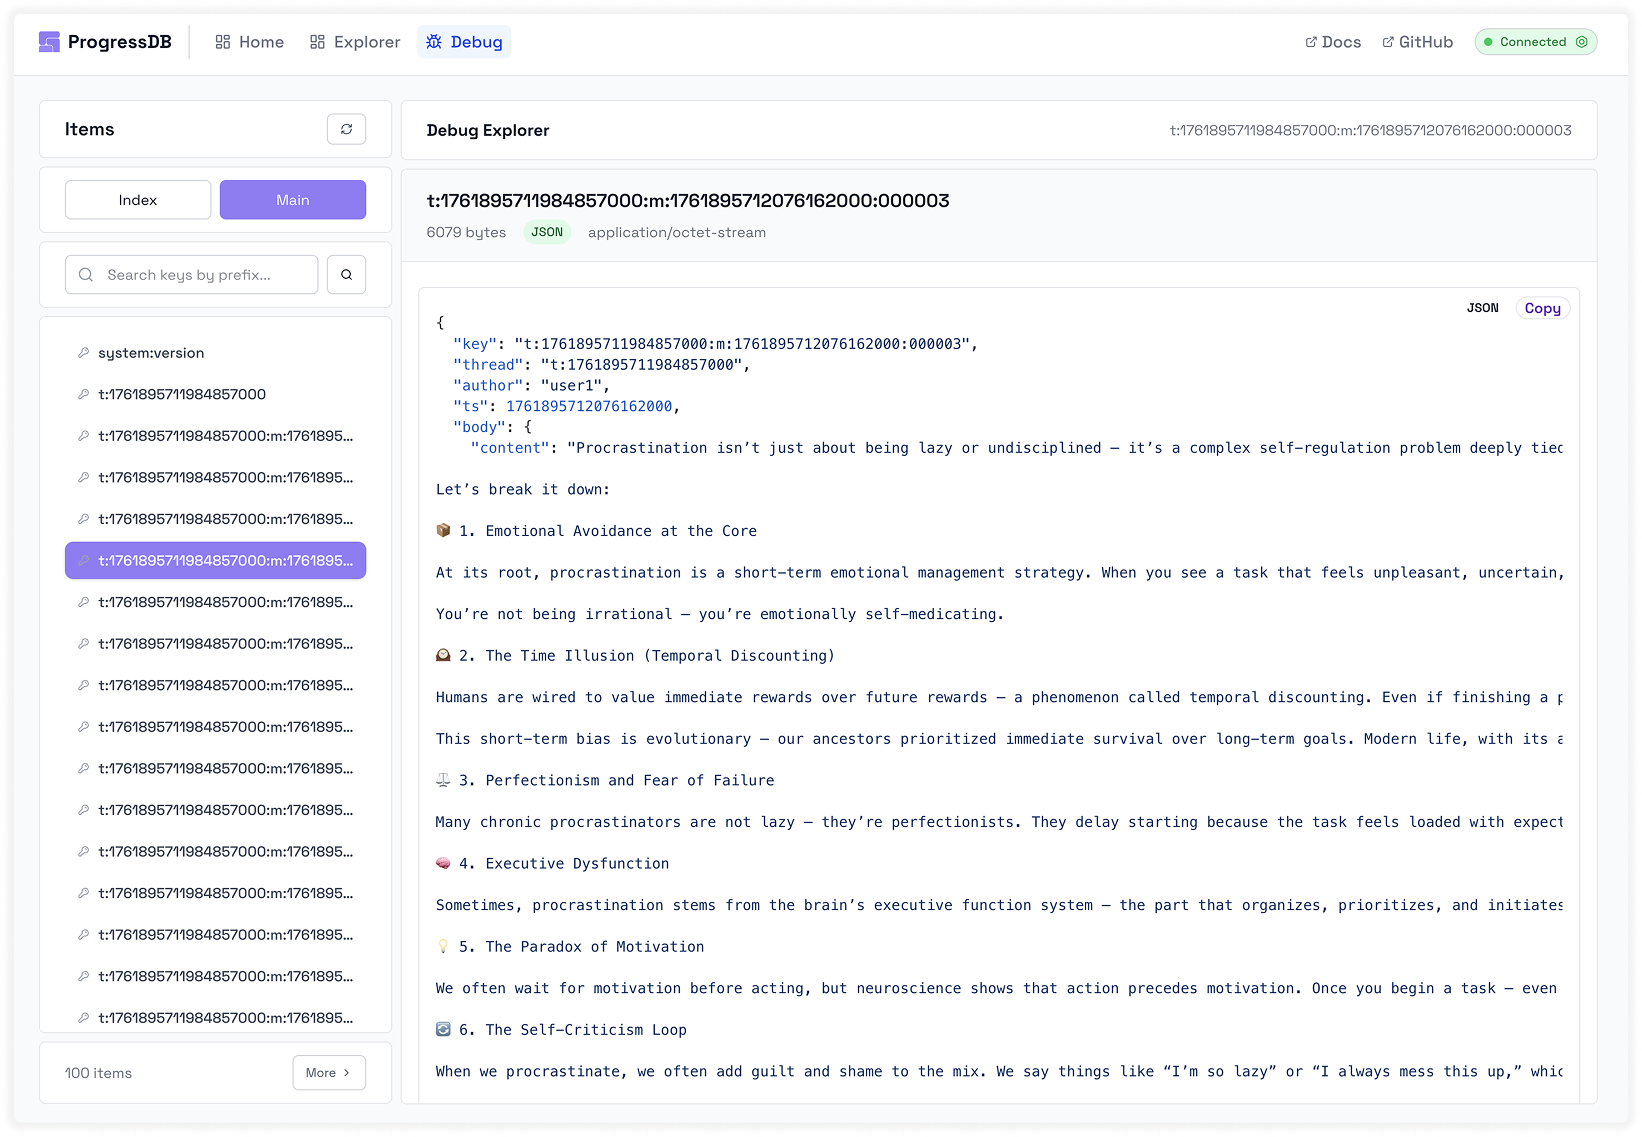
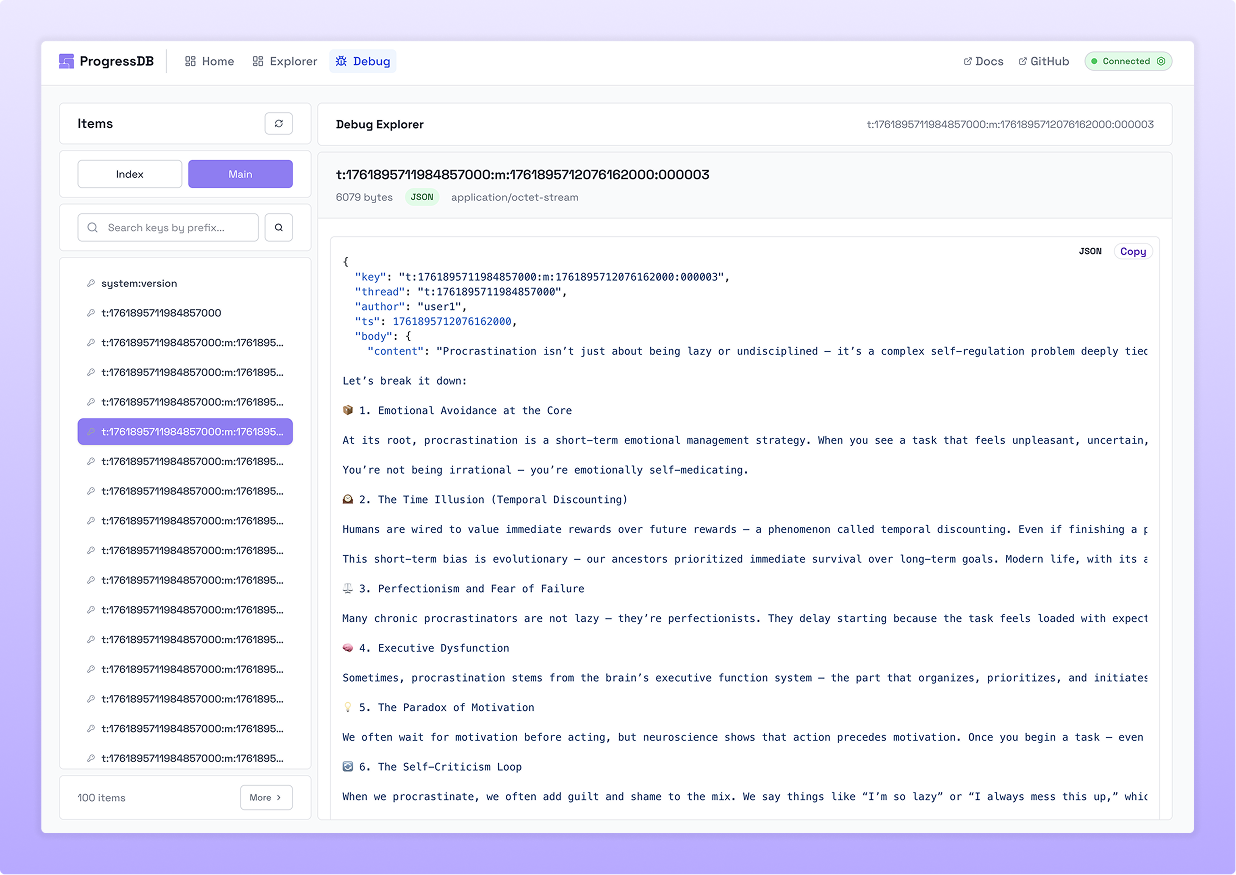
chore - test image

Changed region(s): [[0.0, 0.0309, 1.0, 1.0], [0.8608, 0.2777, 0.8916, 0.3086]]

diff --git a/README.md b/README.md
@@ -59,4 +59,4 @@ Planned
 
 ## Explorer
 
-![ProgressDB Dashboard](/docs/images/dasher4.png)
+![ProgressDB Dashboard](/docs/images/dasher.png)
